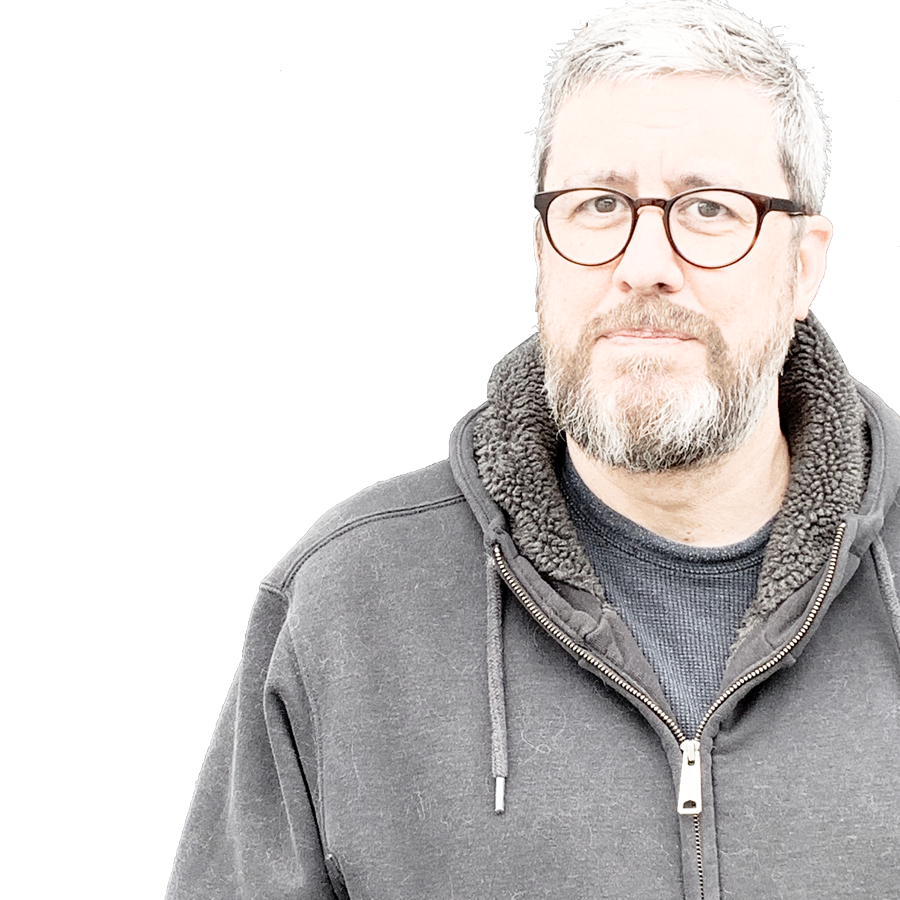
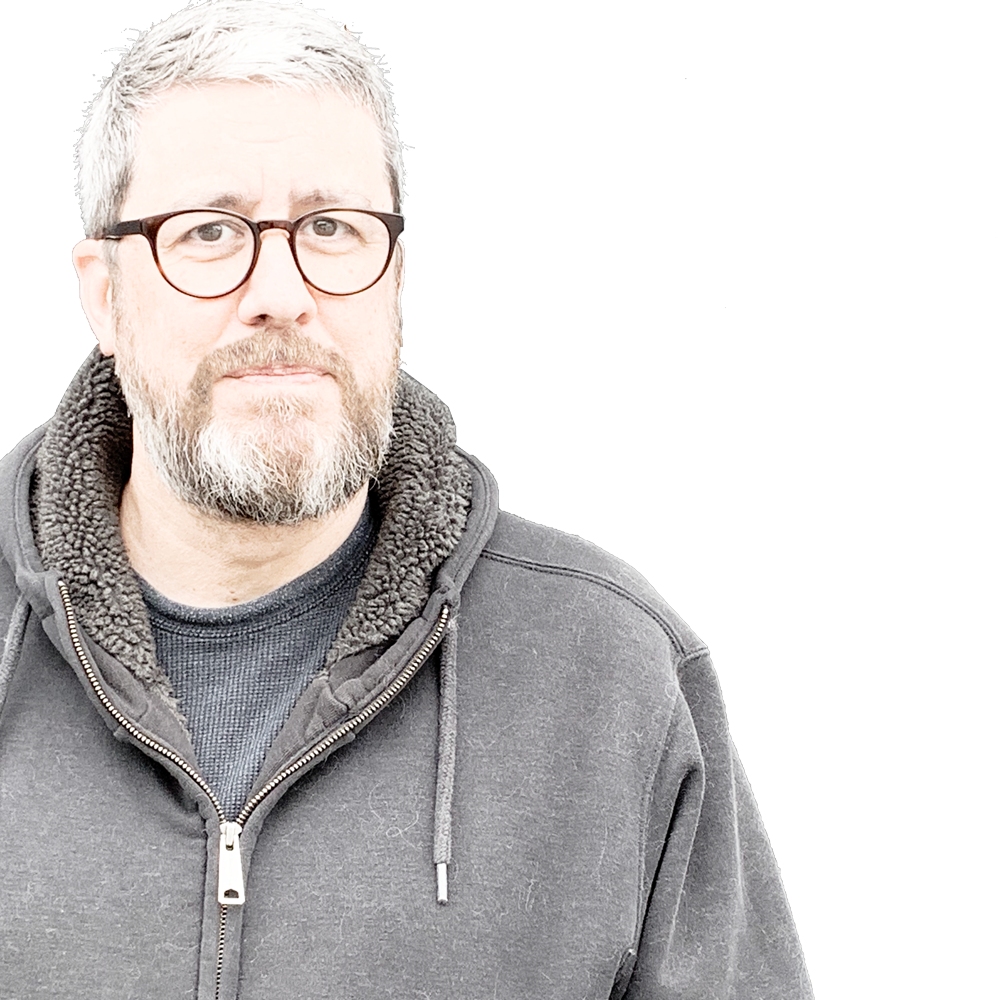
Home page header and contact me updates

diff --git a/assets/css/master.css b/assets/css/master.css
@@ -467,7 +467,7 @@ header.welcome {
     text-align: center;
     color: #384332;
     background-image: url(../images/profile-1x.png);
-    background-position: bottom right;
+    background-position: bottom left;
     background-repeat: no-repeat;
     background-size: 45vh;
     -webkit-transition: all 0.25s ease 0s;
@@ -506,10 +506,10 @@ header.welcome {
   header.welcome .bio {
     flex-direction: row;
     align-items: center;
-    justify-content: center;
+    justify-content: flex-end;
     padding: 4rem 2rem;
     text-align: left;
-    background-size: 40vh; }
+    background-size: 45vw; }
     header.welcome .bio .logo {
       padding: 0 2rem 0 0; }
     header.welcome .bio .text {
@@ -525,22 +525,29 @@ header.welcome {
   header.welcome .bio {
     background-image: url(../images/profile-2x.png); } }
 
+@media (min-width: 90rem) {
+  header.welcome .bio {
+    justify-content: center;
+    background-size: 40vw; } }
+
 /* CONTACT */
 .home.contact {
   display: flex;
-  align-items: flex-end;
+  align-items: flex-start;
   flex-direction: column;
   width: 100%;
   margin: 0 auto;
   padding: 2rem;
-  text-align: right;
-  color: #384332;
-  background: #eef1e8; }
+  text-align: left;
+  color: #ffffff;
+  background: #384332; }
   .home.contact p a.button {
-    background-color: #eef1e8; }
-  .home.contact p a.button:hover, .home.contact p a.button:focus {
-    color: #eef1e8;
+    border-color: #ffffff;
+    color: #ffffff;
     background-color: #384332; }
+  .home.contact p a.button:hover, .home.contact p a.button:focus {
+    color: #384332;
+    background-color: #ffffff; }
 
 .home figure {
   min-height: 100vh; }
@@ -1140,6 +1147,7 @@ main.resume {
   main.resume section {
     width: 90%; }
   main.resume section.about-me p {
+    max-width: none;
     padding: 0 0 0 2rem; } }
 
 @media (min-width: 46rem) {
@@ -1154,9 +1162,7 @@ main.resume {
     justify-content: space-between;
     width: 90%; }
     main.resume section {
-      width: 100%; }
-    main.resume section.about-me {
-      width: 55%; } }
+      width: 100%; } }
 
 /* EXPERIENCE */
 main.resume article.history section {

diff --git a/assets/css/_pages/_home.scss b/assets/css/_pages/_home.scss
@@ -14,7 +14,7 @@ header.welcome {
     text-align: center;
     color: $green;
     background-image: url(../images/profile-1x.png);
-    background-position: bottom right;
+    background-position: bottom left;
     background-repeat: no-repeat;
     background-size: 45vh;
     @include transition (all, 0.25s, ease);
@@ -60,10 +60,10 @@ header.welcome {
     .bio {
       flex-direction: row;
       align-items: center;
-      justify-content: center;
+      justify-content: flex-end;
       padding: 4rem 2rem;
       text-align: left;
-      background-size: 40vh;
+      background-size: 45vw;
       .logo {
         padding: 0 2rem 0 0;
       }
@@ -91,22 +91,35 @@ header.welcome {
   }
 }
 
+@media (min-width: 90rem) {
+  header.welcome {
+    .bio {
+      justify-content: center;
+      background-size: 40vw;
+    }
+  }
+}
+
 
 /* CONTACT */
 .home.contact {
   display: flex;
-  align-items: flex-end;
+  align-items: flex-start;
   flex-direction: column;
   width: 100%;
   margin: 0 auto;
   padding: 2rem;
-  text-align: right;
-  color: $green;
-  background: $cream;
-  p a.button {background-color: $cream;}
-  p a.button:hover, p a.button:focus {
-    color: $cream;
+  text-align: left;
+  color: $white;
+  background: $green;
+  p a.button {
+    border-color: $white;
+    color: $white;
     background-color: $green;
+  }
+  p a.button:hover, p a.button:focus {
+    color: $green;
+    background-color: $white;
   }
 }
 

diff --git a/assets/css/_pages/_resume.scss b/assets/css/_pages/_resume.scss
@@ -198,18 +198,17 @@ main.resume {
 
 @media (min-width: 35.5rem) {
   main.resume {
-    section {
-      width: 90%;
+    section {width: 90%;}
+    section.about-me p {
+      max-width: none;
+      padding: 0 0 0 2rem;
     }
-    section.about-me p {padding: 0 0 0 2rem;}
   }
 }
 
 @media (min-width: 46rem) {
   main.resume {
-    section {
-      width: 70%;
-    }
+    section {width: 70%;}
   }
 }
 
@@ -220,10 +219,7 @@ main.resume {
     flex-wrap: wrap;
     justify-content: space-between;
     width: 90%;
-    section {
-      width: 100%;
-    }
-    section.about-me {width: 55%;}
+    section {width: 100%;}
   }
 }
 
